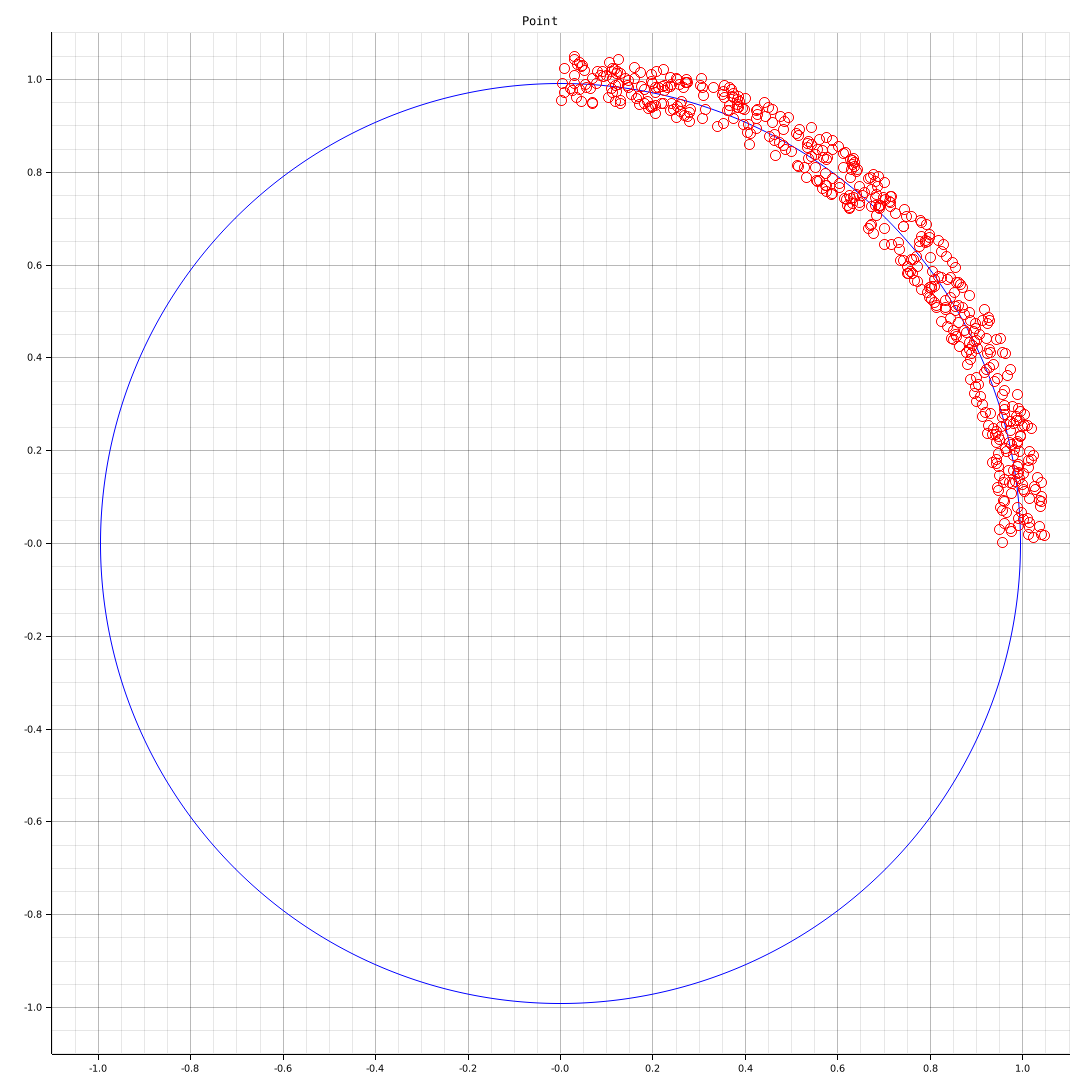
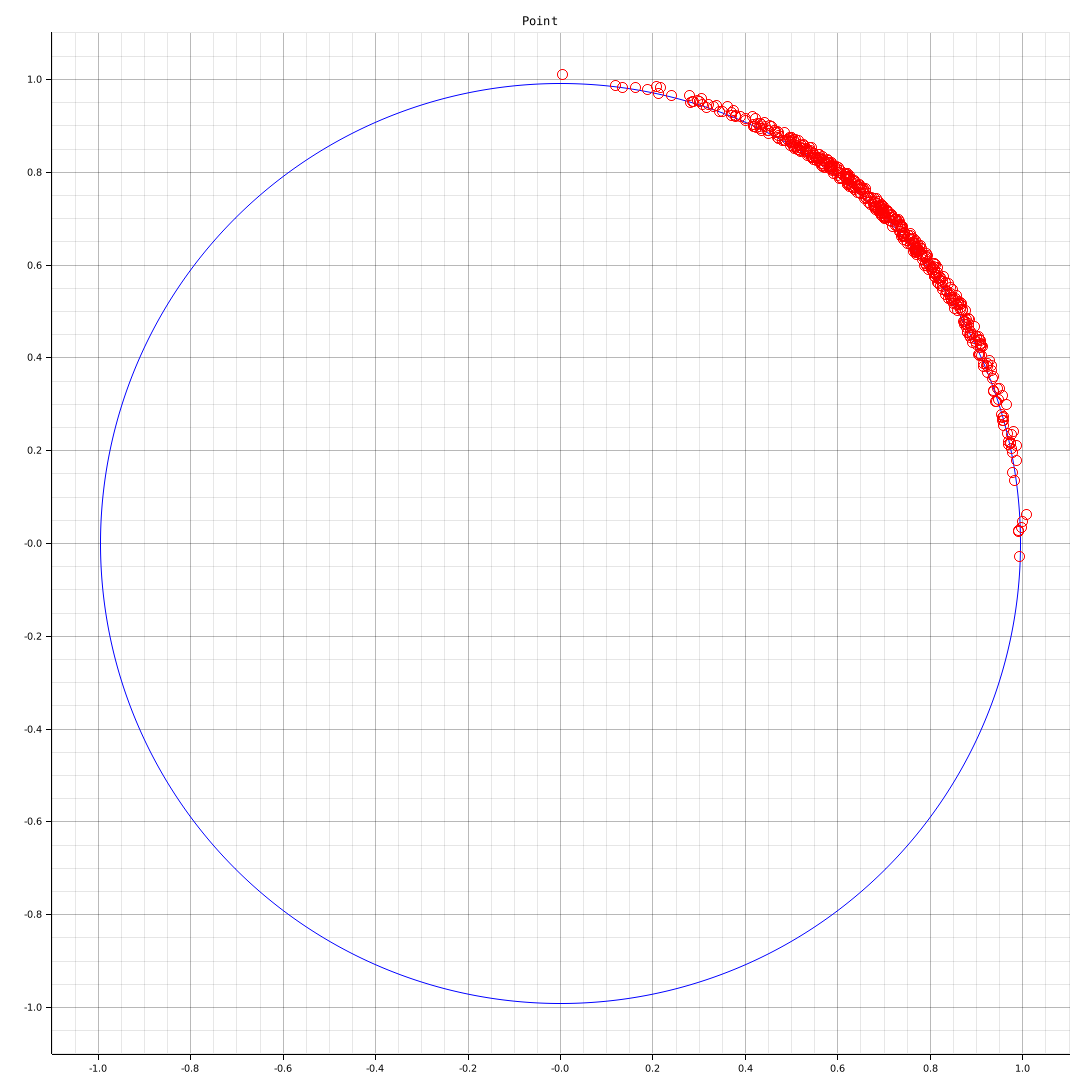
[update] plot points according to the normal dist

Changed region(s): [[0.5194, 0.0306, 0.9778, 0.5194]]

diff --git a/src/main.rs b/src/main.rs
@@ -1,5 +1,6 @@
 use plotters::prelude::*;
-use rand::{thread_rng, Rng};
+use rand::{distributions, thread_rng, Rng};
+use rand_distr::{Normal, Distribution};
 use std::f32::consts::PI;
 
 #[derive(Debug, Clone)]
@@ -19,17 +20,13 @@ fn main() -> Result<(), Box<dyn std::error::Error>> {
     let image_height = 1080;
 
     let mut rng = thread_rng();
-    let mut point_cloud: Vec<_> = (0..500)
-        .map(|_| Vector2 {
-            x: rng.gen(),
-            y: rng.gen(),
-        })
-        .collect();
+    let normal_dist = Normal::<f32>::new(PI/4f32, ((PI * 2f32)/12f32).powf(2f32)).unwrap();
+    let mut point_cloud = Vec::<Vector2>::new();
 
     let mut laser_scan: Vec<_> = (0..500)
         .map(|_| LaserScan {
-            r: 1.0 + rng.gen_range(-0.05f32..0.05f32),
-            theta: rng.gen_range(0f32..PI/2.0),
+            r: 1.0 + rng.gen_range(-0.01f32..0.01f32),
+            theta: normal_dist.sample(&mut rng),
         })
         .collect();
 
